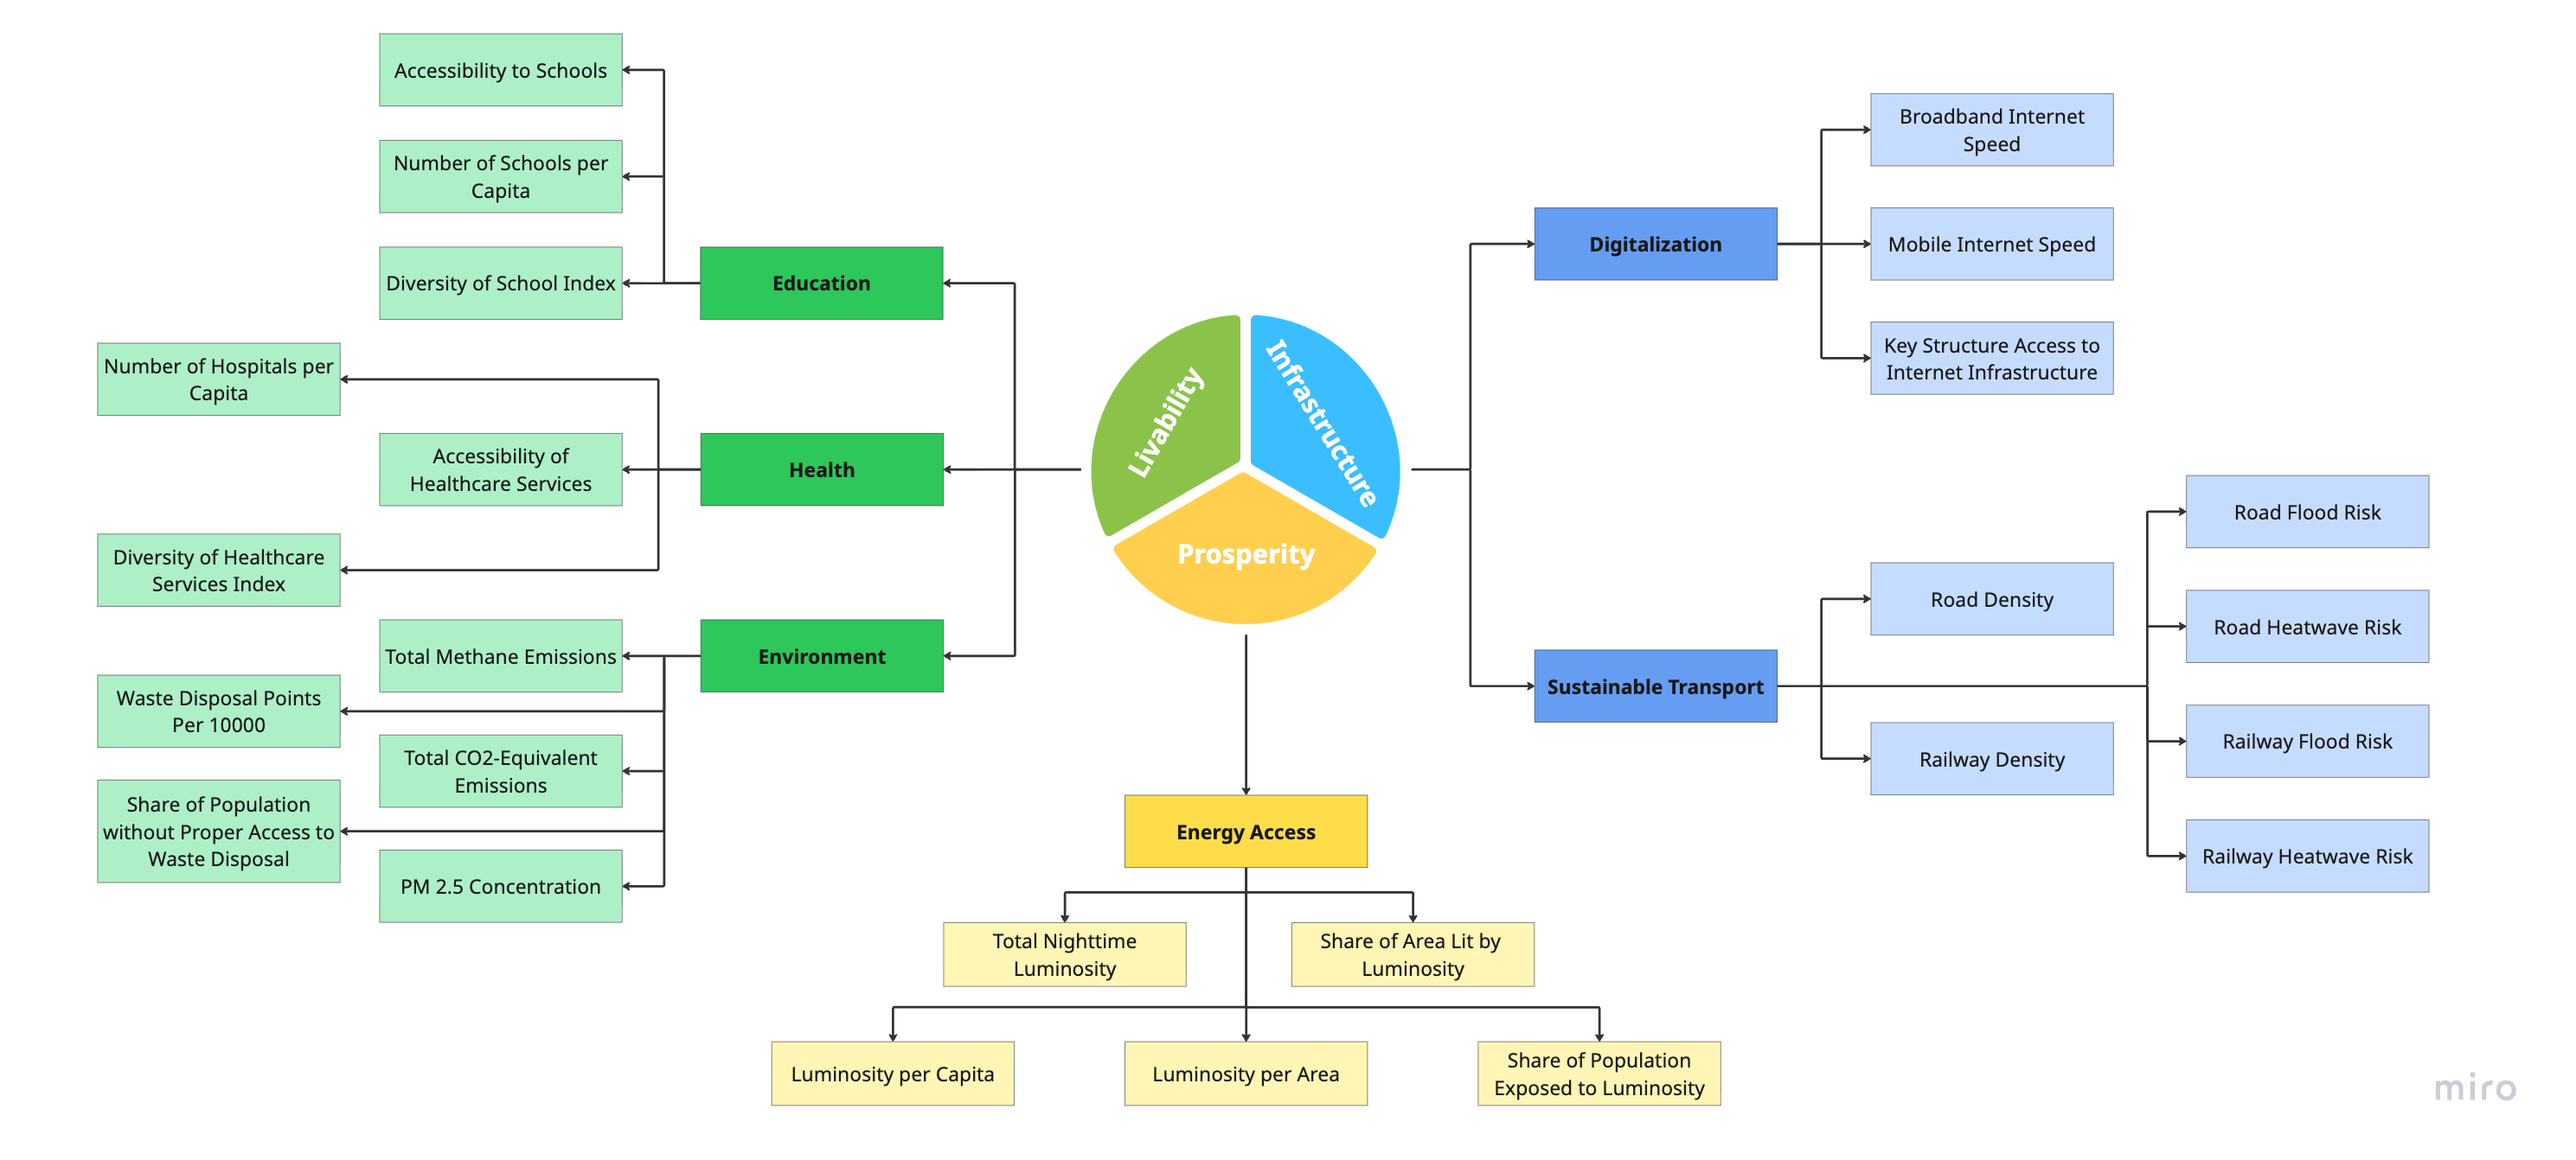
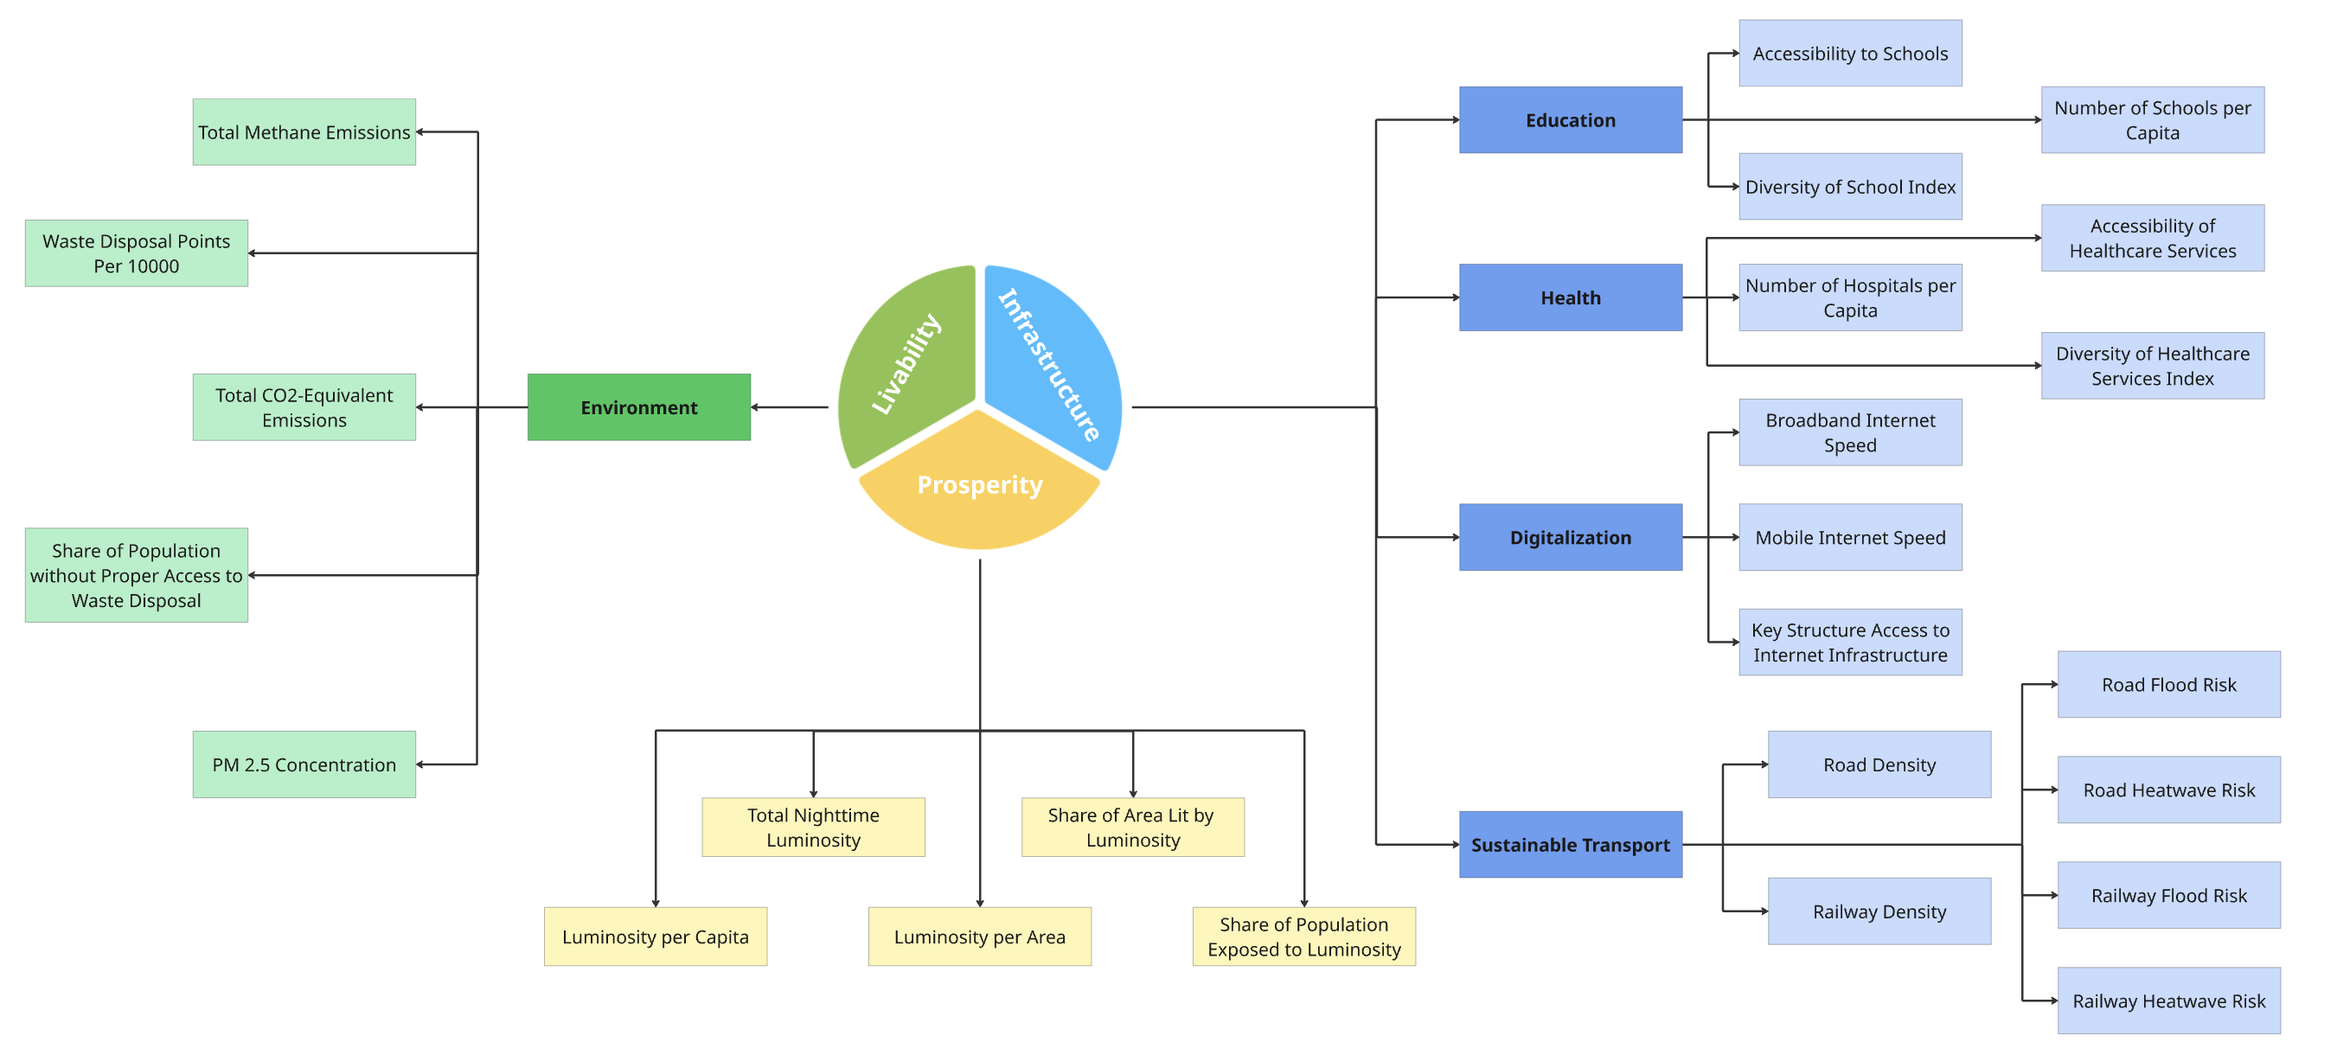
remapping of dimensions

diff --git a/methodology.py b/methodology.py
@@ -196,19 +196,19 @@ st.image("images/Indicators Map.png", use_container_width=True)
 st.markdown("### Development Pillars")
 
 st.markdown("""
-**Prosperity**  focuses on the region's ability to provide energy, as a proxy to economic development, to its population. It is currently composed of the *Energy Access* dimension.
-- Access to energy, with the use of nighttime luminosity to measure how easily a region's population and built up areas have access to energy.
+**Prosperity**  focuses on the region's ability to provide energy, as a proxy to economic development, to its population. It is currently composed of the indicators related to Nighttime Luminosity.
+- The use of nighttime luminosity to measure how easily a region's population and built up areas have access to energy.
 - Intensity of energy consumption, using luminosity to measure how much energy is consumed per capita and per area.
 - Proxies for GDP and GDP per Capita
 
-**Livability** measures the region's ability to provide various aspects of human development. It is currently composed of the *Education*, *Health*, and *Environment* dimensions.
+**Livability** measures the region's ability to provide a positive environment conducive to human development. It is currently composed of *Environment* dimensions.
 - Solid waste management systems accessibility and stress.
 - Emissions of Greenhouse Gases and Air Quality.
-- Access to services for human development, such as healthcare and education.
 
-**Infrastructure** focuses on the region's ability to provide and maintain basic infrastructure to its population. It is currently composed of the *Digitalization*, *Sustainable Transport* dimensions.
+**Infrastructure** focuses on the region's ability to provide and maintain basic infrastructure to its population. It is currently composed of the *Digitalization*, *Sustainable Transport*, *Health*, and *Education* dimensions.
 - Transportation networks (road, rail connectivity) and their vulnerability to climate risks.
 - Digital connectivity and performance.
+- Access to services for human development, such as healthcare and education.
 """)
 
 st.markdown("<hr style='border: 1px solid #ddd; margin: 2rem 0;'>", unsafe_allow_html=True)

diff --git a/gpbp-ldt-de.py b/gpbp-ldt-de.py
@@ -102,7 +102,7 @@ def load_data(_storage_client):
     )
     
     gdf_score_geom = read_geojson_from_gcs(
-        _storage_client, BUCKET_NAME, "decision_engine/inputs/SRB_Full_geom_v7.json"
+        _storage_client, BUCKET_NAME, "decision_engine/inputs/SRB_Full_geom_v8.json"
     )
     
     df_score = read_csv_from_gcs(
